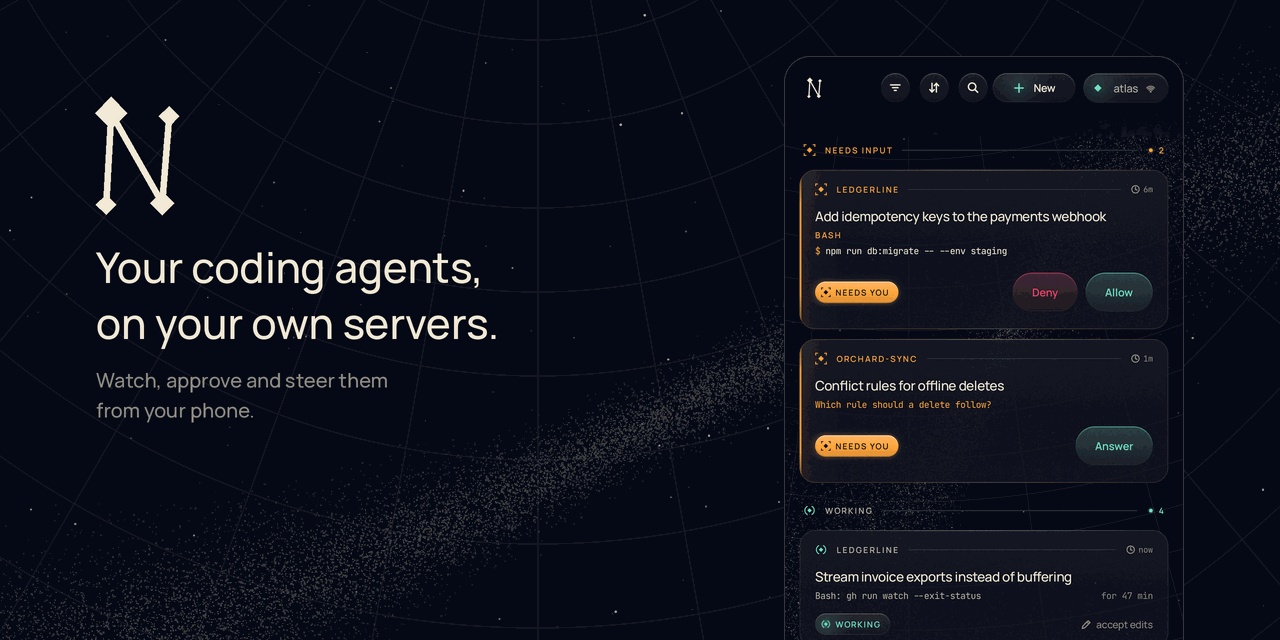
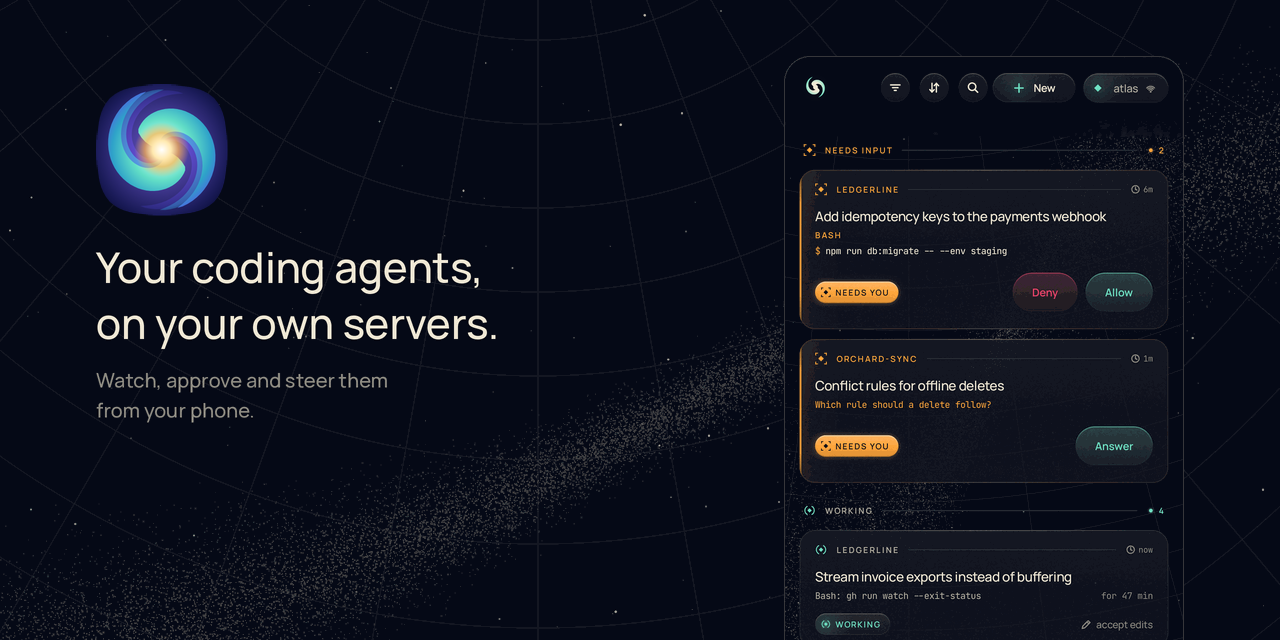
docs: the Nebula in DESIGN and DECISIONS, and on the social preview

Changed region(s): [[0.0625, 0.125, 0.1875, 0.3438], [0.625, 0.125, 0.6562, 0.1562]]

diff --git a/docs/DESIGN.md b/docs/DESIGN.md
@@ -179,7 +179,8 @@ Colour-blind safety: the concept measured working against needs you in OKLab und
 - **The update** (`ui/update/UpdateUi.kt`): while an update is under way, a banner in the notice banner's place and look (bg900 97%, radius 18, a 1dp ring in its colour at 35%, an 8dp point): `UPDATE` and the version in dim mono, what's happening (Downloading the update, Checking the update, Allow Hypernova to install its update, Ready to install, Confirm the update in Android's dialog), on the right the percent in mono mint or the step's Pill (Allow, Install, Try again; 36dp), and under it a 2dp hairline bar (ink 9% track, the part done in mint, round ends). A failure turns it amber (`UPDATE STOPPED` and why). It gives way to a notice while one shows, and swiped up it stays away until the next step. Settings' UPDATE card says the same in its body: the bar with `18.4 MB of 45.2 MB` and `42%` in mono, or the step's text and Pill, with a Ghost Open in browser only where a browser could open the Mac's page.
 - **Settings, drawn:** the Mac card's line under its name says how Stay awake holds it as a phrase ("Awake with the lid closed") and then its battery mark and percentage; the Battery row puts how it's powered after its glyph (a bolt `charging`, a plug `on power`, a stopwatch `3h 5m left`, or `on battery`) before the battery mark and the percentage (amber low, red critical), never "62% · charging". A provider's card shows its models as model chips in a flowing row (TalkBack hears their full ids) and what's left on its key after a banknote (`▭ $4.20 left`). A saved key's toast: "Key works. $4.20 left."
 - **Words where nothing can draw** (notifications, toasts): short phrases, not fields. An approval: "0stems needs you", "A question from 0stems", "A plan to review in 0stems", from an agent "From implement:fix"; a session: "cosmos renderer finished", "… is waiting for you", "… stopped on an error"; a limit: "Session limit reached. Claude carries on by itself at 2:00."; the background connection: "Session limit until 2:00" over "2 working and 1 needs you", "Connected and all quiet", "Offline and trying again".
-- **The logo** (`NovaMark`, `components/Marks.kt`, `logo`; owner, 2026-11-01): Atlas's constellation in the shape of an **N**, for the app's coming name: four diamonds, top left the largest, joined by three lines, a little out of true as a plotted figure is. In ink. It's the launcher, monochrome, notification and shortcut icons, and the logo in the top bar, onboarding and on assistant messages. All drawn here; no star shapes or asterisks.
+- **The logo** (`NovaMark`, `components/Marks.kt`, `logo`; owner, 2026-11-02; DECISIONS, "The Nebula"): the **Nebula**, two arms of swept light round a core, tapering to points. In the app it's the launcher icon's front layer alone, one shape on the page with no violet, glow or layers: `ink` at the core and to 42% of the way out, turning to `live` at the tips, as the icon's cream core turns to its teal arms. In any other colour passed to it (a pairing state's) it's all that colour. Same box as before, at 11, 12, 22 and 34dp, its tips reaching the box's edges. No frames at rest; its one path is built once. It's the top bar, onboarding and assistant messages.
+- **The icons** (`res/drawable`, VectorDrawables, no raster, from `docs/concepts/icons/` on the `art-concepts` branch): **launcher:** a ground of radial `#3A2C86` to `#141650` to `#050718`; the foreground's soft violet glow, then three layers of arms (violet, blue, and in front cream to teal to blue), then a white to amber core. The arms stay inside the safe zone (r 33 of 108); only the glow passes it. **Monochrome:** the arms and core as one shape, for themed icons. **Notification:** redrawn for 24dp, heavier and with a shorter sweep. **Android 12's splash** shows the whole adaptive icon (`@mipmap/ic_launcher`): the foreground alone showed its glow cut off in a hard ring on the page. **Shortcuts** never carried the logo: New session is the accent's plus, a project the working mark.
 - **Wordmark:** `hypernova/` in light lowercase with a mint slash, matching `0stems/` and `prudnikov/`.
 
 ## Motion

diff --git a/docs/DECISIONS.md b/docs/DECISIONS.md
@@ -3503,3 +3503,15 @@ default: what the session comes to at API prices, even on a plan, from `costUsd`
 carries, with "≈" when it was worked out here rather than given by Claude Code. It doesn't draw where no
 price applies, such as another provider.
 
+
+## The Nebula (2026-11-02)
+
+The owner, of the constellation N that Atlas brought in the day before: "just seems like skeleton bones", "looks very basic". Of the directions in `docs/concepts/icons/` (branch `art-concepts`; that folder isn't merged) he chose **Nebula**: two heavy arms of swept light round a hot core, on violet. How it's drawn is in `docs/DESIGN.md`, "The logo" and "The icons". It replaces "For a later name" in "Atlas" above: the logo no longer spells a letter.
+
+1. **No raster.** The launcher, monochrome and notification icons are VectorDrawables with the concept's coordinates and gradient stops as drawn. On the emulator the launcher's icon comes within 7 levels of 255 of the browser's on average, per colour, in each ring from the core out, and no banding showed at real size or on the 192dp splash.
+2. **The app's logo isn't the icon made small** (a judgement call, for him to look at). At 11 to 34dp three translucent layers would be detail nobody can see (reasoned, not tried) and violet isn't in Atlas's palette, so it's the front layer alone, from Atlas's own tokens: ink at the core, `live` at the tips. **It isn't all `live`:** that's the colour of working, and two arms round a centre in it, beside a session's working mark on an assistant's heading, would read as one. Ink at the core keeps it the app's and not a state's.
+3. **The splash shows the whole icon,** not the foreground alone, as it used to: alone, the glow ended in a hard ring at the splash's mask, on the page's near-black.
+4. **Shortcuts stayed as they were:** New session's plus and a project's working mark never carried the N. On the launcher New session's shows as a small square in a white circle, as `ic_shortcut_new.xml` isn't an adaptive icon: older than this, and not changed here.
+5. **`docs/images/social-preview.png`** is the old picture with the N's two places redone: the icon where the large N was, and Home's real mark from the demo server in the phone. Nothing else in it changed. The README's `shot-*.jpg` still show the N until they're retaken.
+6. **`NovaMark` keeps its name** for now; the rename is a later job. Its size, tap and TalkBack label didn't change, and the 47 screenshots that changed differ only where the logo is, or where it shows through a blurred bar or sheet.
+7. **Seen on an emulator (`hn-art`, Android 36, `swangle_indirect`):** the launcher on plain light and dark wallpapers, themed on both, the status bar and shade, the splash, onboarding, Home and an assistant's heading, with the demo server. **Not seen:** a real phone; a launcher's own squircle mask (this emulator's launcher offers only a circle, so the squircle was seen in a Compose render of the same resources, at 48dp, and in a browser in the concept).
